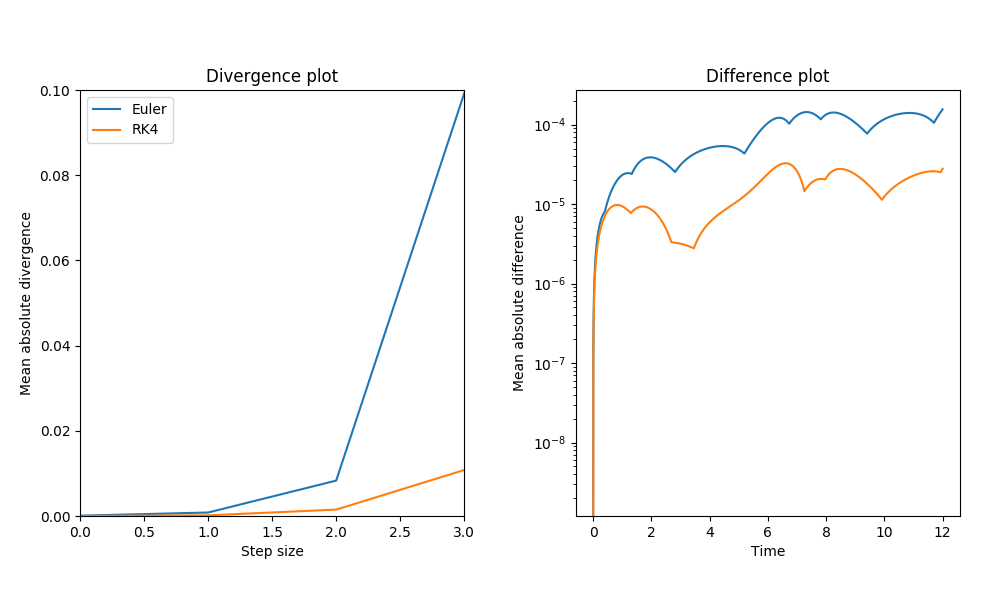
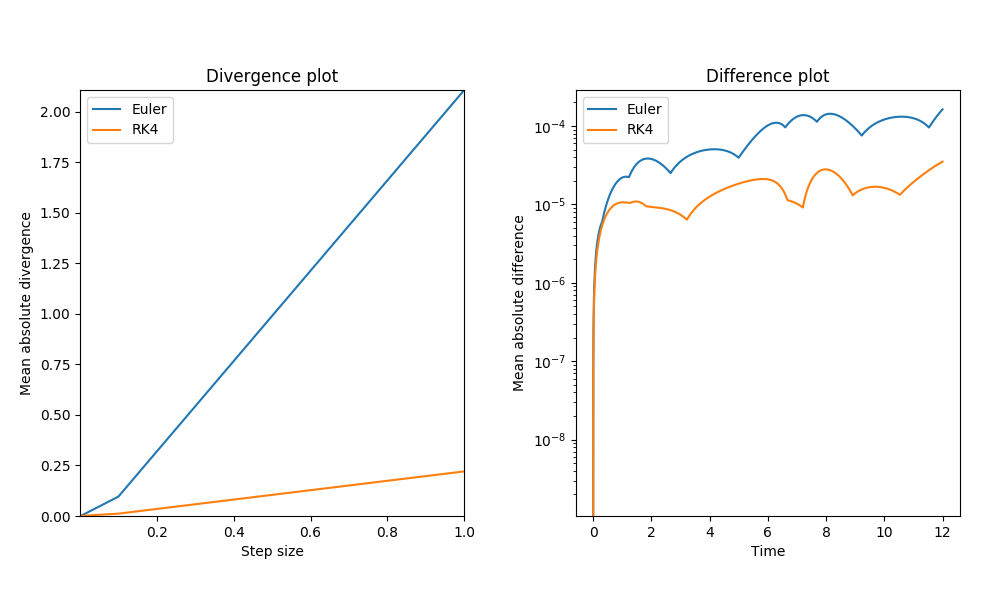
Se corrigió una gráfica errónea
Estudiantes que realizaron el Parcial:
Nombre                                   C.C.
David Silva Sánchez              1017248532
Juan Pablo Marulanda Serna 1152704745

diff --git a/Parciales/Parcial1/N1017248532/problema2.py b/Parciales/Parcial1/N1017248532/problema2.py
@@ -48,7 +48,7 @@ class System:
     def evolve(self,t):
         ''' Function that evolves the system, over a temporal interval t=[t_i,t_f]  '''
         
-        h = (t[-1] - t[0])/len(t) # the step taken for the integration method
+        h = t[1]-t[0] # the step taken for the integration method
         
         for i in t[:-1]: # last value of t is not used, as it is the final state
             y = self.method([self.g1[-1],self.g2[-1]], i, h, self.F) # Evolution of the states
@@ -65,7 +65,10 @@ mean_div_rk4 = [] # list to store the divergence of the RK4 method for varous st
 
 t = [] # Time array
 
-dt = [0.1,0.01,0.001,0.0001] # array of time steps
+dt = [1,0.1,0.01,0.001,0.0001] # array of time steps
+#dt = [1.2,0.12,0.012]
+
+counter = 0
 for i in dt:
     
     sys_euler = System(1.50,1.00,Euler) # system class for the Euler integrator, with initial conditions n1=1.50, n2=1.00
@@ -75,7 +78,7 @@ for i in dt:
 
     sys_euler.evolve(t) # evolve the system of the Euler integrator over t
     sys_rk4.evolve(t) # evolve the system of the RK4 integrator over t
-    y_od = odeint(sys_euler.F, [sys_euler.g1[0], sys_euler.g2[0]], t) # evolve a new system (not in a class) with same initial conditions, with Odeint integrator
+    y_od = odeint(sys_euler.F, [sys_euler.g1[0], sys_euler.g2[0]], t) # evolve a new system (not in a class) with same initial conditions, with Odeint integrator, we use the function and initial conditions for the system that uses the euler method, because the functions and initial conditions are independent of the method used
     
     y_od_g1 = y_od[:,0] # Integrated solutions for the gas 1
     y_od_g2 = y_od[:,1] # integrated solutions fot the gas 2
@@ -83,14 +86,20 @@ for i in dt:
     #Defining divergence:
     sys_euler.g1_diff = np.abs(sys_euler.g1 - y_od_g1) # Mean difference between the solutions for the gas 1 with the Euler integrator and Odeint integrator
     sys_euler.g2_diff = np.abs(sys_euler.g2 - y_od_g2) # Mean difference between the solutions for the gas 2 with the Euler integrator and Odeint integrator
-    mean_div_euler.append(np.mean((sys_euler.g1_diff+sys_euler.g2_diff)/2)) # divergence is the mean of the mean differences of gas 1 and gas 2 for the whole step 
+
+    mean_div_euler.append(np.mean((sys_euler.g1_diff+sys_euler.g2_diff)/2)) # divergence is the mean of the mean differences of gas 1 and gas 2 for the whole step
     
     sys_rk4.g1_diff = np.abs(sys_rk4.g1 - y_od_g1) # Mean difference between the solutions for the gas 1 with the RK4 integrator and Odeint integrator
     sys_rk4.g2_diff = np.abs(sys_rk4.g2 - y_od_g2) # Mean difference between the solutions for the gas 2 with the RK4 integrator and Odeint integrator
     mean_div_rk4.append(np.mean((sys_rk4.g1_diff+sys_rk4.g2_diff)/2)) # divergence is the mean of the mean differences of gas 1 and gas 2 for the whole step 
+    
 
-
-# solution of the system with the optimal step size, i.e., the one for which the divergence is minimal
+'''
+We first calculated the mean divergence for each step size. We choose the optimal step size as the one for which the divergence is minimal.
+The plots for the solutions and the difference between euler/rk4 and odeint) will be made with this optimal step size. We also included a plot of
+mean absolute divergen in function of the step size.
+'''
+# solution of the system with the optimal step size.
     
 sys_rk4 = System(1.50,1.00,RK4) # system class for the Euler integrator, with initial conditions n1=1.50, n2=1.00
 sys_euler = System(1.50,1.00,Euler) # system class for the RK4 integrator, with initial conditions n1=1.50, n2=1.00
@@ -104,17 +113,17 @@ sys_euler.t_opt = np.arange(0,12+sys_euler.dt_opt, sys_rk4.dt_opt) # time array 
 sys_euler.evolve(sys_euler.t_opt) # the system of the Euler integrator is evolved according to the time array with the optimal step size
 sys_rk4.evolve(sys_rk4.t_opt) # the system of the RK4 integrator is evolved according to the time array with the optimal step size
 
-sys_rk4.y_od = odeint(sys_rk4.F, [sys_rk4.g1[0], sys_rk4.g2[0]], sys_rk4.t_opt) # the system is evolved with the Odeint integrator in order to make the comparation
-sys_euler.y_od = odeint(sys_euler.F, [sys_euler.g1[0], sys_euler.g2[0]], sys_euler.t_opt) # the system is evolved with the Odeint integrator in order to make the comparation
+sys_rk4.y_od = odeint(sys_rk4.F, [sys_rk4.g1[0], sys_rk4.g2[0]], sys_rk4.t_opt) # the system is evolved with the Odeint integrator in order to make the comparation with rk4 method
+sys_euler.y_od = odeint(sys_euler.F, [sys_euler.g1[0], sys_euler.g2[0]], sys_euler.t_opt) # the system is evolved with the Odeint integrator in order to make the comparation with euler method
 
     
 #Defining divergence:
-sys_euler.g1_diff = np.abs(sys_euler.g1 - sys_euler.y_od[:,0]) # Mean difference between the solutions for the gas 1 with the Euler integrator and Odeint integrator
-sys_euler.g2_diff = np.abs(sys_euler.g2 - sys_euler.y_od[:,1]) # Mean difference between the solutions for the gas 2 with the Euler integrator and Odeint integrator
+sys_euler.g1_diff = np.abs(sys_euler.g1 - sys_euler.y_od[:,0]) # Difference between the solutions for the gas 1 with the Euler integrator and Odeint integrator
+sys_euler.g2_diff = np.abs(sys_euler.g2 - sys_euler.y_od[:,1]) # Difference between the solutions for the gas 2 with the Euler integrator and Odeint integrator
 
     
-sys_rk4.g1_diff = np.abs(sys_rk4.g1 - sys_rk4.y_od[:,0]) # Mean difference between the solutions for the gas 1 with the RK4 integrator and Odeint integrator
-sys_rk4.g2_diff = np.abs(sys_rk4.g2 - sys_rk4.y_od[:,1]) # Mean difference between the solutions for the gas 2 with the RK4 integrator and Odeint integrator
+sys_rk4.g1_diff = np.abs(sys_rk4.g1 - sys_rk4.y_od[:,0]) # Difference between the solutions for the gas 1 with the RK4 integrator and Odeint integrator
+sys_rk4.g2_diff = np.abs(sys_rk4.g2 - sys_rk4.y_od[:,1]) # Difference between the solutions for the gas 2 with the RK4 integrator and Odeint integrator
 
 # ------------------------------------------------------------------------------
 # Plots
@@ -124,21 +133,21 @@ sys_rk4.g2_diff = np.abs(sys_rk4.g2 - sys_rk4.y_od[:,1]) # Mean difference betwe
 fig_d,ax_d = plt.subplots(nrows=1,ncols=2,figsize=(10,6)) # figure and axes for the divergence and difference plot
 
 for div,dif,name in zip([mean_div_euler,mean_div_rk4],[sys_euler,sys_rk4],["Euler","RK4"]): # divergence and difference of each integration method are ploted on the cycle
-    ax_d[0].plot(range(len(div)),div[::-1],label=name) # divergence plot
-    ax_d[1].semilogy(dif.t_opt,np.abs((dif.g1_diff + dif.g2_diff)/2)) # difference plot. Semilog scale on y is used for better vizualitation
+    ax_d[0].plot(dt,div,label=name) # divergence plot
+    ax_d[1].semilogy(dif.t_opt,(dif.g1_diff + dif.g2_diff)/2,label=name) # difference plot. Semilog scale on y is used for better vizualitation
 
 
 ax_d[0].legend() # allows labels for plots
 ax_d[0].set_xlabel("Step size") # x label for divergence plot
 ax_d[0].set_ylabel("Mean absolute divergence") # y label for divergence plot
-ax_d[0].set_xlim(0,3) # x limits for divergence plot
-ax_d[0].set_ylim(0,0.1) # y limits for divergence plot
+ax_d[0].set_xlim(dt[-1],dt[0]) # x limits for divergence plot
+ax_d[0].set_ylim(0,max(mean_div_euler)) # y limits for divergence plot
 ax_d[0].set_title("Divergence plot")
 
 ax_d[1].set_xlabel("Time") # x label for difference plot
 ax_d[1].set_ylabel("Mean absolute difference") # y label for difference plot
 ax_d[1].set_title("Difference plot")
-
+ax_d[1].legend() #allows labels for plots
 fig_d.subplots_adjust(left=0.08,bottom=0.14,right=0.96,top=0.85,wspace=0.29,hspace=0.20) # sets the space configration of the plots on the figure
 
 
@@ -178,5 +187,10 @@ fig.subplots_adjust(left=0.07,bottom=0.08,right=0.97,top=0.95,wspace=0.29,hspace
 
 plt.show() # shows all figures
 
-fig_d.savefig("Div_dif_plot.png", format="png") # save divergence and difference plot
-fig.savefig("states_plot.png", format="png") # save states plot
+fig_d.savefig("Problema2_Div_dif_plot.png", format="png") # save divergence and difference plot
+fig.savefig("Problema2_states_plot.png", format="png") # save states plot
+
+'''
+We conclude that the solutions for both the euler and rk4 converge, as can be seen from the difference's plot and the small mean absolute
+divergence for small step sizes.
+'''
